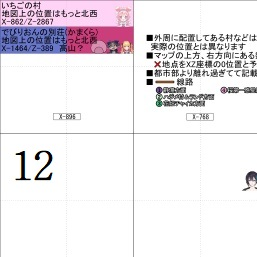
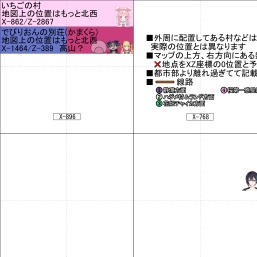
zoom st up

Changed region(s): [[0.0623, 0.5603, 0.2179, 0.716]]

diff --git a/index02.html b/index02.html
@@ -777,7 +777,7 @@ window.addEventListener("load", () => {
 <!--新規開拓ワールドタブ-->
 <div id="newworld_tab01" class="cp_tabpanel">
 	<div id="contentDiv_new" class="osd_disp"></div>
-	<div id="zoomLevelUI_new" class="zoom-ui">Lv: 9</div>
+	<div id="zoomLevelUI_new" class="zoom-ui"></div>
 	<script type="text/javascript">
 		var viewer_2434map_new = OpenSeadragon({
 			showNavigator: true,
@@ -803,52 +803,26 @@ let hideTimer_new = null;
 			// 現在ズーム取得
 			const z = viewer_2434map_new.viewport.getZoom(true);
 
+			// 実際に描画された画像アイテムタイル取得
+			const item = viewer_2434map_new.world.getItemAt(0);
 
-const maxZoom = viewer_2434map_new.viewport.getMaxZoom();	
-const cfg = mapConfigs[viewer_2434map_new.mapId];	// map設定取得
+			// Zoom level取得
+			let level = lastDrawn.length > 0 ? lastDrawn[0].level : 0;
 
-//const ratio = z / maxZoom;				// 最大zoom比率
-//const maxLevel = 14;		//Math.ceil(Math.log2(cfg.width));
-// 逆方向にスケール
-//let level = Math.round(ratio* maxLevel);//Math.log2(ratio)
-
-
-
-    // 実際に描画された画像アイテムタイル取得
-    const item = viewer_2434map_new.world.getItemAt(0);
-
-    // DeepZoom最大level
-    const maxLevel = item.source.maxLevel;
-    // 最大level
-  //  const maxLevel = Math.ceil(Math.log2( Math.max(item.source.dimensions.x,item.source.dimensions.y)));
-
-    // Home倍率（初期fit時）
-    const homeZoom = viewer_2434map_new.viewport.getHomeZoom();
-    // 現在倍率が初期倍率の何倍か
-    const scale = z / homeZoom;
-    // 画像倍率level
- //   const imageZoom = item.viewportToImageZoom(z);
-    // DeepZoom level計算
-    let level = Math.floor(Math.log2(scale));
-
-    // 実際に描画されたタイル取得
-    const lastDrawn =item.lastDrawn || [];
-    if(lastDrawn.length > 0){level = lastDrawn[0].level;}// 最初のタイルlevel取得
-    console.log("描画タイル level:",level,"item:",item);
+			// Zoom最大level制限
+			const maxLevel = item.source?.maxLevel ?? level;
+			level = Math.max(0, Math.min(maxLevel, level));
 
 
+			// 実際に描画されたタイル取得
+			const lastDrawn =item.lastDrawn || [];
+			if(lastDrawn.length > 0){level = lastDrawn[0].level;}// 最後のタイルlevel取得
+		console.log("描画タイル level:",level,"lastDrawn:",lastDrawn);//ログだし
 
-    // 範囲制限
-    level = Math.max(0, Math.min(maxLevel, level));
-
-   // console.log("LEVEL:", Math.round(level));
-//let level;if (z < 1.59) level = 10;else if (z < 2.747) level = 11;else if (z < 4.747) level = 12;else if (z < 9.845) level = 13;else level = 14;
-			console.log("viewportzoom:",z,"homeZoom:", homeZoom,"scale:", scale, "level:", level);//ログだし
 
 			const ui = document.getElementById("zoomLevelUI_new");
     			if (!ui) return;
 
- //   ui.textContent = "Lv: " + level;
 			ui.innerHTML = `<img src="./img/zoom_lv${level}.png">`;
    			ui.classList.add("show");
 
